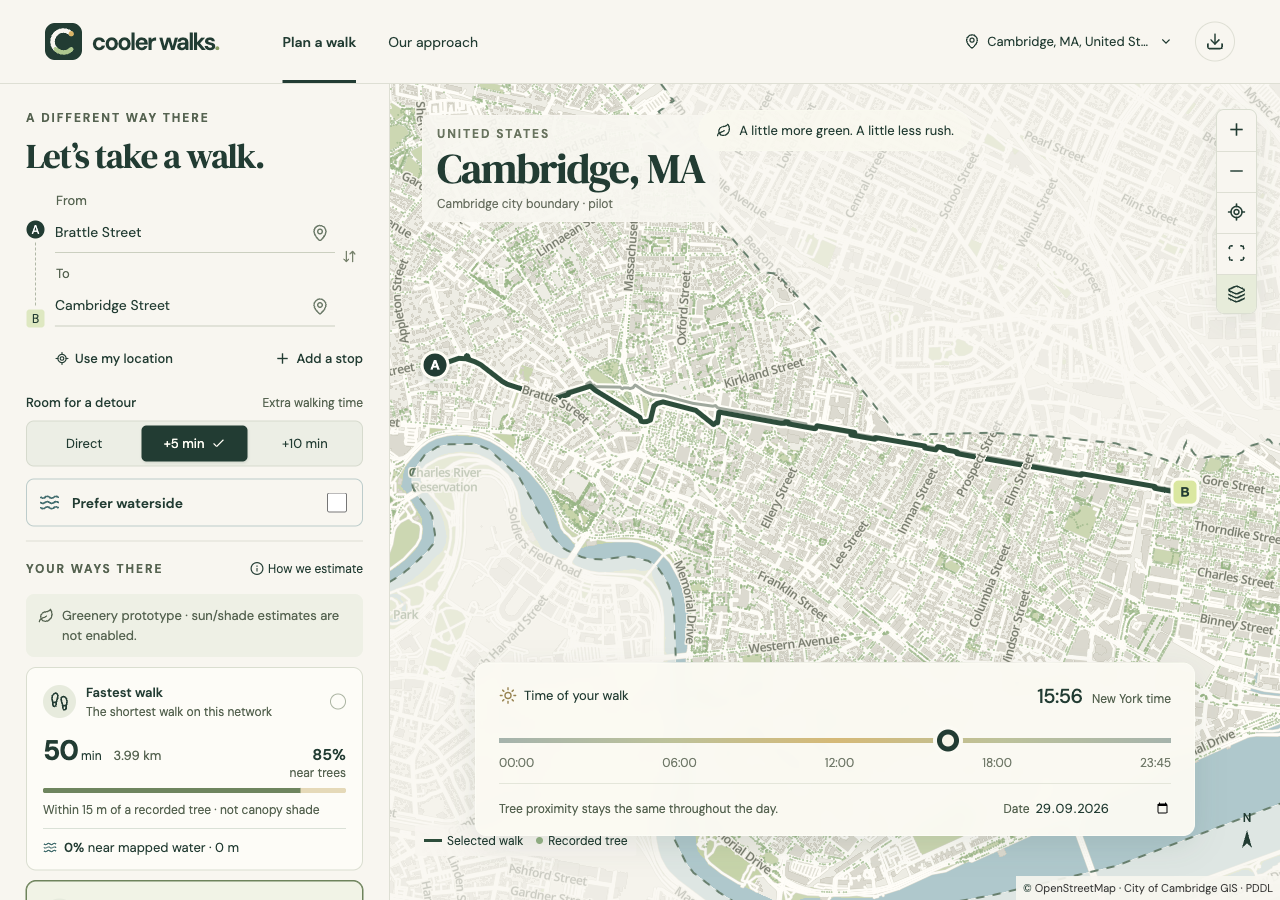
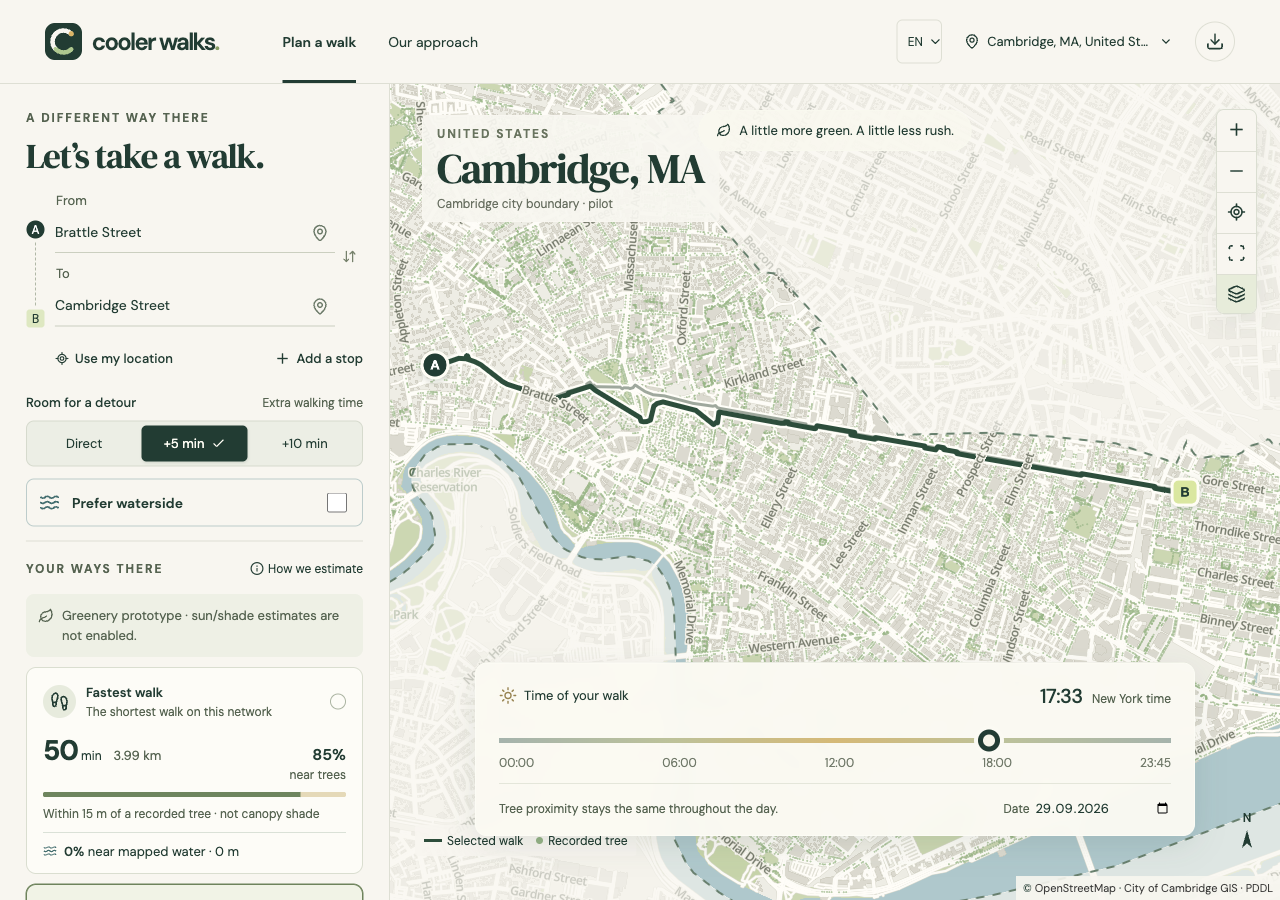
Record verified 0.5.0 deployment and native checks [skip ci]

Changed region(s): [[0.0312, 0.84, 0.2812, 0.9956], [0.7188, 0.8089, 0.7812, 0.84], [0.8125, 0.7467, 0.8438, 0.7778]]

diff --git a/docs/platform.md b/docs/platform.md
@@ -8,15 +8,15 @@ The manifest provides a stable ID, name, standalone display mode, planner start 
 
 Chrome exposes an installation prompt when eligible. The app's install control uses that event where available and otherwise offers browser-specific guidance. Safari's Share → Add to Home Screen guidance is not represented as a tested installation path.
 
-**Actually verified:** Google Chrome 154.0.8037.58 on macOS (latest download milestone; earlier checks used Chrome 153), using an isolated temporary profile and a visible browser window. The production build at `http://127.0.0.1:4173/` had zero manifest or installability errors. Chrome's DevTools PWA commands installed it, set its window preference, and launched it; the new window rendered working route results and reported `display-mode: standalone`. The test then uninstalled its isolated test app. This verifies actual installation and launch, but does not claim a manual click-through test of every browser installation menu. The report is [pwa-validation.json](pwa-validation.json), and the window capture is [screenshots/installed-app.png](screenshots/installed-app.png).
+**Actually verified:** Google Chrome 154.0.8037.92 on macOS, using an isolated temporary profile and a visible browser window, against **https://coolerwalks.ch/** on 29 September 2026. The deployed 0.5.0 build had zero manifest or installability errors. Chrome's DevTools PWA commands installed it and launched a window with real routes and `display-mode: standalone`. The installed app then switched to German, reloaded offline and calculated the Zurich calmer alternative. Its German manifest was also checked. The test uninstalled its isolated app afterward. This verifies actual installation and launch, but does not claim a manual click-through test of every browser installation menu. See [pwa-validation.json](pwa-validation.json) and [installed German app](screenshots/installed-german-app.png).
 
-To repeat, start the production preview in one terminal, then run:
+To repeat against the public release, run:
 
 ```sh
-PWA_HEADFUL=1 npm run test:pwa
+PWA_ORIGIN=https://coolerwalks.ch PWA_HEADFUL=1 npm run test:pwa
 ```
 
-Optionally set `PLAYWRIGHT_CHROMIUM_EXECUTABLE` to an installed Chrome executable. Headless Chrome accepts installation but did not expose a standalone window in this environment; use a graphical session for this check. The test uses a temporary profile and does not access personal browser tabs or saved accounts.
+For a local production preview, set `PWA_ORIGIN=http://127.0.0.1:4173`. Optionally set `PLAYWRIGHT_CHROMIUM_EXECUTABLE` to an installed Chrome executable. Headless Chrome accepts installation but did not expose a standalone window in this environment; use a graphical session for this check. The test uses a temporary profile and does not access personal browser tabs or saved accounts.
 
 ## Offline behaviour
 
@@ -51,7 +51,7 @@ The enlarged graphs pass six new real journeys with endpoints outside the old co
 
 The native project uses an Android debug build job on GitHub Actions in addition to existing web/model checks. It explicitly sets up the Android SDK and does not publish an app or use release-signing credentials.
 
-**Android actually verified:** the debug APK compiled, installed and launched in an isolated Pixel 8 AVD running Android 16 (API 36.1, ARM64), with Android System WebView 134.0.6998.135. Eleven integration checks passed: native launch and local worker routes, no service worker, information/editing Back handling, native location denial with preserved inputs, maps/routes in all four cities with Wi-Fi/mobile data disabled, winter sun preference offline, root Back/minimize/resume, no horizontal overflow, and a cold offline relaunch remembering the city. No page errors were recorded. Source and test details are in [native-validation.json](native-validation.json) and [mobile.md](mobile.md). Actual emulator screenshots include [offline Munich](screenshots/android-offline-munich.png) and [offline Cambridge](screenshots/android-offline-cambridge.png). Screenshot review caught and corrected pale system icons on the light header. The current debug APK is about 29 MB; it is available locally under `native-artifacts/` and as a private CI artifact after a successful native job. No physical-device or App Store/Play Store validation is implied.
+**Android actually verified:** the debug APK compiled, installed and launched in an isolated Pixel 8 AVD running Android 16 (API 36.1, ARM64), with Android System WebView 154.0.8037.58. Twelve integration checks passed on 0.5.0: native launch and local worker routes, no service worker, information/editing Back handling, native permission dismissal with preserved inputs, German calmer-route calculation and language switching, maps/routes in all four cities with Wi-Fi/mobile data disabled, winter sun preference offline, root Back/minimize/resume, no horizontal overflow, and a cold offline relaunch remembering the city. No page errors were recorded. Source and test details are in [native-validation.json](native-validation.json) and [mobile.md](mobile.md). Actual emulator screenshots include [offline Munich](screenshots/android-offline-munich.png) and [offline Cambridge](screenshots/android-offline-cambridge.png). Screenshot review caught and corrected pale system icons on the light header. The current debug APK is about 29 MB; it is available locally under `native-artifacts/` and as a private CI artifact after a successful native job. No physical-device or App Store/Play Store validation is implied.
 
 **iOS simulator:** the new GitHub Actions macOS 26 workflow successfully compiles an unsigned ARM64 simulator app. Its downloaded artifact installed and launched on the local iPhone 16e / iOS 26.1 simulator, displaying the actual Zurich route and building-shade model with readable safe areas. This is a native WKWebView launch, not a browser viewport screenshot. Physical iPhone testing is still unperformed. Local Xcode's matching 26.2 runtime can be downloaded with an explicit `-architectureVariant arm64`; see `mobile.md`.
 
@@ -59,9 +59,9 @@ The native project uses an Android debug build job on GitHub Actions in addition
 
 The explicit map manager packages four larger pilots and one smaller Munich area. Browser tests check verified persistence, blocked-network data reuse, area switching, cancellation, service failure/retry, removal, a real IndexedDB transaction rollback and an automated dialog accessibility scan. Model tests reject truncated, oversized, tampered or incompatible packs and cancelled/quota-failed installation. Generated catalogue metadata and real routing are checked independently of UI fixtures. Native download tests use the actual Filesystem bridge and an isolated emulator, with a local loopback server that is removed before the cold offline restart. Production HTTPS hosting, device-memory pressure and OS interruption during file writes remain release tests. See `downloads.md`.
 
-The latest production PWA run also saved the compact Munich pack, reopened it with all networking blocked, cold-reloaded its map and route, and then installed/launched the app standalone. Both manifest and installability checks were clear, with zero page errors. The six native download checks in [native-download-validation.json](native-download-validation.json) passed in addition to the eleven full-bundle native checks.
+The production PWA run also saved the compact Munich pack, reopened it with all networking blocked, cold-reloaded its map and route, and then installed/launched the app standalone. Both manifest and installability checks were clear, with zero page errors. The six native download checks in [native-download-validation.json](native-download-validation.json) passed on 0.4.0; they were not repeated for this language/traffic update. The current full-bundle native checks are recorded separately.
 
-The iOS check is deliberately narrower than Android: native compile/install/launch, a real Zurich route, the information view and the four-area inventory were verified. iOS download writes, cold offline restart, permissions, long-dialog touch scrolling and keyboard interaction are still unverified. See [ios-validation.json](ios-validation.json). Physical-phone testing was explicitly deferred by the user for this delivery.
+The current 0.5.0 iOS check is deliberately narrower than Android: CI compile, local install/launch, a real Zurich route, packaged German permission resources and actual English/German interfaces were verified. The information view and four-area inventory were checked in the earlier 0.4.0 milestone. iOS download writes, cold offline restart, permissions, long-dialog touch scrolling and keyboard interaction are still unverified. See [ios-validation.json](ios-validation.json). Physical-phone testing was explicitly deferred by the user for this delivery.
 
 ## Public-domain verification — 29 September 2026
 
@@ -73,4 +73,8 @@ The final-origin PWA test installed and launched standalone, saved a genuine Mun
 
 Local checks: 55 unit/model/language tests; all 14 browser scenarios; all four production-header release scenarios, including German static help/privacy without JavaScript, offline German navigation, German 404, accessibility and 200% text. TypeScript, source formatting, production build/release validation and real-data route/coverage checks passed. Actual German desktop/phone/tablet images were inspected; long public-page text and footer links were made to reflow at enlarged sizes.
 
-Android 0.5.0/build 3 compiles locally; its emulator acceptance results are recorded in the native JSON reports. iOS resources include English/German permission text and pass plist/project syntax validation. Local Xcode still rejects its generic simulator destination despite listing the installed runtime; the existing macOS CI workflow remains the build path. See the current release verification record for hosted and native outcomes. No physical-device testing or store submission is implied.
+The published source is `e0a0795ffa8990a24f87786b572e51c0e5ba1f8b`. GitHub [web/model checks](https://github.com/gumbrich/cooler-walks/actions/runs/36627073452), [Android APK/AAB build](https://github.com/gumbrich/cooler-walks/actions/runs/36627073439) and [iOS simulator/unsigned archive build](https://github.com/gumbrich/cooler-walks/actions/runs/36627073386) all passed. All four release browser scenarios also passed against the actual domain, alongside every hosted pack checksum/CORS check.
+
+Android 0.5.0/build 3 passed twelve emulator integration checks with zero page errors, including a real German calmer-route comparison, preserved trip on language change and all four cities offline. The test explicitly waits for the Android permission window before dismissing it with Back; calculation assertions use the same 60-second allowance as other emulator routes. The iOS CI artifact installed and launched in English and German on iPhone 16e/iOS 26.1. German permission resources were present in the compiled app; actually granting/denying permission was not exercised on iOS. Local Xcode still rejects its generic simulator destination despite listing the installed runtime, so CI supplied the artifact. Four Android public-page checks also passed: native safe-area clearance, English help/privacy, German help/privacy and return to the matching planner. Reports retain the exact tested versions and limitations.
+
+Chrome 154.0.8037.92 installed the live PWA and ran German calmer routing after an offline reload, with zero manifest/installability/page errors. Actual [Android German](screenshots/android-german-calm.png), [iOS German](screenshots/ios-v050-german.png) and [installed German PWA](screenshots/installed-german-app.png) screenshots were inspected. Physical devices, store submissions and live traffic/noise validation remain unperformed.

diff --git a/docs/hosting.md b/docs/hosting.md
@@ -71,7 +71,7 @@ npm run release:smoke -- https://coolerwalks.ch https://maps.coolerwalks.ch/pack
 Use the actual owned URLs and the matching app checkout/catalogue. For the initial same-origin website deployment, use:
 
 ```sh
-npm run release:smoke -- https://coolerwalks.ch --catalog docs/releases/2026-09-29-netlify-catalog.json
+npm run release:smoke -- https://coolerwalks.ch --catalog docs/releases/2026-09-29-v050-netlify-catalog.json
 PWA_ORIGIN=https://coolerwalks.ch PWA_HEADFUL=1 npm run test:pwa
 RELEASE_ORIGIN=https://coolerwalks.ch npm run test:release:browser
 ```
@@ -93,3 +93,11 @@ No host plan upgrade, R2 account/bucket, store enrollment or app submission was 
 The initial live PWA check detected Netlify's automatically injected badge script conflicting with the strict CSP. Disabled **Project configuration → General → Powered by Netlify badge** using the [supported setting](https://docs.netlify.com/manage/projects/powered-by-netlify-badge/). Public HTML was rechecked: only the application's own module script remains. No CSP exception or third-party script allowance was added.
 
 Final custom-domain checks passed on Chrome 154/macOS: actual PWA installation and standalone launch, real pack download, cold offline reopening of Munich Old Town, offline routes/water preference/waypoints, cached-city switching, an honest unvisited-city error and recovery after reconnecting. Three release browser scenarios passed on `https://coolerwalks.ch`: no-JavaScript help/privacy, WCAG A/AA scan and 200% text, production CSP, offline privacy and real 404. Two existing desktop/phone planner scenarios also passed on the identical Netlify deployment. Screenshots were inspected; [PWA report](pwa-validation.json) records the final origin. Physical phone and native-app downloads from the final host remain untested.
+
+## Version 0.5.0 release — 29 September 2026
+
+Published source `e0a0795ffa8990a24f87786b572e51c0e5ba1f8b` adds Zurich calmer streets and German website/app support. English and German entry, privacy and support pages are live. [Web/model checks](https://github.com/gumbrich/cooler-walks/actions/runs/36627073452), [Android builds](https://github.com/gumbrich/cooler-walks/actions/runs/36627073439) and [iOS builds](https://github.com/gumbrich/cooler-walks/actions/runs/36627073386) all passed on that source.
+
+The live smoke test passed six HTML pages, English/German 404s, security/cache headers, service-worker and manifest checks, and all five compressed pack lengths, SHA-256 hashes and native CORS. The [deployed catalogue](releases/2026-09-29-v050-netlify-catalog.json) is retained. The changed Zurich payload was independently decompressed and compared with source; the four unchanged hashes retain their earlier verified source comparisons. See [payload verification](releases/2026-09-29-v050-hosted-packs.json).
+
+Four release browser scenarios passed on the domain, including no-JavaScript German pages, accessibility and 200% text, production CSP, German offline navigation and a true German 404. Chrome 154.0.8037.92 installed and launched the PWA, cold-reopened a downloaded area offline, switched to German and calculated the Zurich calmer route offline. No page errors occurred. No hosting plan, DNS, billing or store account changes were needed for this update.

diff --git a/README.md b/README.md
@@ -74,7 +74,7 @@ npm run native:open:ios      # open Xcode
 
 Detailed setup, signing boundaries and offline behaviour are in [docs/mobile.md](docs/mobile.md). Actual platform test results are in [docs/platform.md](docs/platform.md). Signing credentials and generated native build outputs are ignored.
 
-Android compiled and passed eleven checks in an Android 16 emulator, including native location denial, Back/resume, all four cities offline and cold offline launch. The iOS simulator build passes in GitHub Actions and launched successfully in the local iPhone 16e simulator. Neither platform has been tested on a physical phone or submitted to a store.
+Android 0.5.0 compiled and passed twelve checks in an Android 16 emulator, including German calmer-route comparison, native permission dismissal, Back/resume, all four cities offline and cold offline launch. The iOS simulator build passes in GitHub Actions and launched in English and German in the local iPhone 16e simulator. Neither platform has been tested on a physical phone or submitted to a store.
 
 ## Develop and verify
 
@@ -120,7 +120,7 @@ Real route checks for every pilot are in [city-route-validation.json](docs/city-
 
 ## Screenshots
 
-Version 0.5.0: [German desktop comparison](docs/screenshots/desktop-german-calm.png), [German phone](docs/screenshots/phone-german-calm.png), [German entry](docs/screenshots/desktop-german-home.png) and [recoverable error state](docs/screenshots/tablet-german-error.png).
+Version 0.5.0: [German desktop comparison](docs/screenshots/desktop-german-calm.png), [German phone](docs/screenshots/phone-german-calm.png), [German entry](docs/screenshots/desktop-german-home.png), [recoverable error state](docs/screenshots/tablet-german-error.png), [installed German PWA](docs/screenshots/installed-german-app.png), [Android calmer route](docs/screenshots/android-german-calm.png) and [German iOS launch](docs/screenshots/ios-v050-german.png).
 
 Actual browser, Android emulator and iOS simulator captures are in [docs/screenshots](docs/screenshots), including [expanded Cambridge on desktop](docs/screenshots/desktop-expanded-cambridge.png) and [offline Munich in the native app](docs/screenshots/android-offline-munich.png). The [download manager](docs/screenshots/desktop-downloads.png) and [compact Munich phone view](docs/screenshots/phone-downloaded-area.png) show the new flow. They document visual review, not physical-device or field validation.
 

diff --git a/docs/progress.md b/docs/progress.md
@@ -6,7 +6,7 @@ Implemented a Zurich-only street-context preference using the actual current mun
 
 The website, shared native planner, source/coverage dialogs, error states and offline manager now support German. `/de/`, `/de/privacy/`, `/de/support/`, German manifest and native iOS permission resources are included. EN/DE preserves current trip state; route-local time and units remain independent. Native version is 0.5.0, build 3. [Localization maintenance](localization.md).
 
-Validation and deployment results are recorded in [platform.md](platform.md). Next for this mode: verify street-level vehicle volumes/noise-model inputs and field-check representative routes. Other cities do not inherit Zurich traffic data.
+Published to **https://coolerwalks.ch/** and **https://coolerwalks.ch/de/** from `e0a0795`. All 55 unit/model/language tests, 14 browser scenarios, four live release browser scenarios and hosted map checks passed; web, Android and iOS CI builds are green. Chrome installed and used the German PWA offline. Android passed twelve emulator checks including German calmer routes; the iOS CI artifact launched in English and German. Reports and actual screenshots are in [platform.md](platform.md). Physical-device and traffic field validation remain unperformed. Next for this mode: verify street-level vehicle volumes/noise-model inputs and field-check representative routes. Other cities do not inherit Zurich traffic data.
 
 ## Previous milestone: public website launch
 
